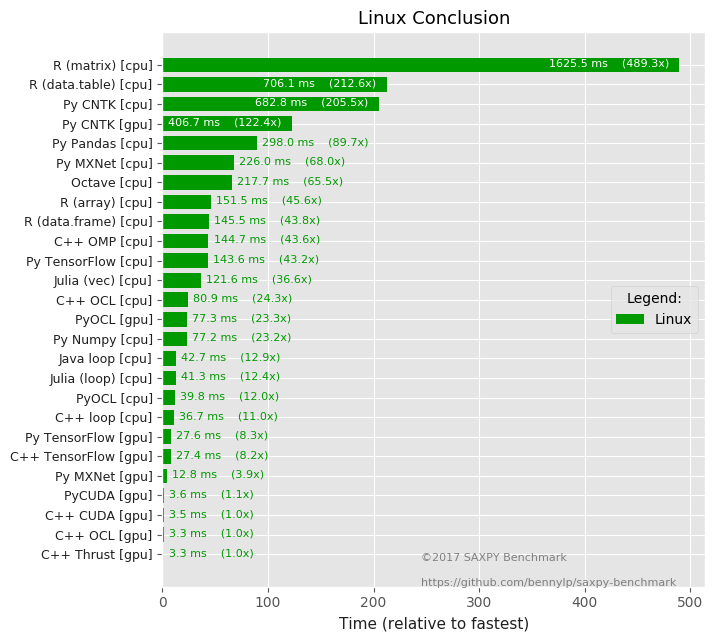
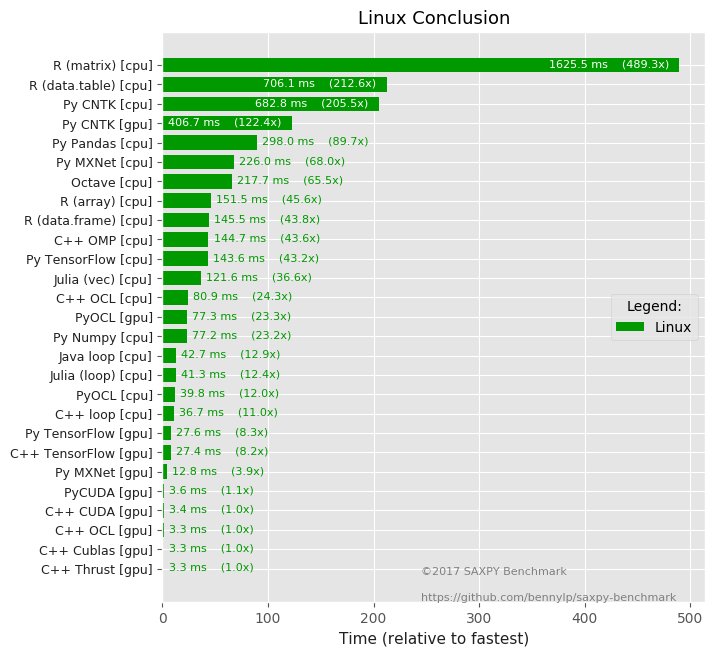
Added Cublas

diff --git a/src/saxpy_cublas.cpp b/src/saxpy_cublas.cpp
@@ -1,0 +1,51 @@
+#include <iostream>
+#include <cublas_v2.h>
+#include "saxpy.h"
+
+int main()
+{
+#define CE(op) if ((status = op) != CUBLAS_STATUS_SUCCESS) { std::cerr << "Error: " #op << " [status=" << status << "]\n"; return 1; }
+   cublasStatus_t status;
+   cublasHandle_t h = nullptr;
+   float *host_x, *host_y;
+
+   std::cout << "N: " << N << std::endl;
+
+   host_x = new float[N];
+   host_y = new float[N];
+
+   //cublasInit();
+   CE( cublasCreate(&h) );
+
+   for (int i=0; i<N; ++i) {
+      host_x[i] = XVAL;
+      host_y[i] = YVAL;
+   }
+   float *dev_x, *dev_y;
+   cudaMalloc( (void**)&dev_x, N*sizeof(float));
+   cudaMalloc( (void**)&dev_y, N*sizeof(float));
+
+   CE( cublasSetVector(N, sizeof(host_x[0]), host_x, 1, dev_x, 1) );
+   CE( cublasSetVector(N, sizeof(host_y[0]), host_y, 1, dev_y, 1) );
+
+   cudaDeviceSynchronize();
+
+   saxpy_timer t;
+   cublasSaxpy(h, N, &AVAL, dev_x, 1, dev_y, 1);
+   cudaDeviceSynchronize();
+   double elapsed = t.elapsed_msec();
+
+   std::cout << "Elapsed: " << elapsed << " ms\n";
+
+   cublasGetVector(N, sizeof(host_y[0]), dev_y, 1, host_y, 1);
+   saxpy_verify(host_y);
+
+   if (h)
+      cublasDestroy(h);
+   cudaFree(dev_y);
+   cudaFree(dev_x);
+   delete [] host_y;
+   delete [] host_x;
+
+   return 0;
+}

diff --git a/results/create_charts.py b/results/create_charts.py
@@ -39,7 +39,8 @@ known_columns = {
     'Julia (vec) [cpu]': 'saxpy_array.jl',
     'Py CNTK [gpu]': 'saxpy_cntk.py',
     'Py CNTK [cpu]': 'saxpy_cntk.py',
-    'C++ Thrust [gpu]': 'saxpy_trust.cpp'
+    'C++ Thrust [gpu]': 'saxpy_trust.cpp',
+    'C++ Cublas [gpu]': 'saxpy_cublas.cpp'
 }
 
 

diff --git a/results/README.md b/results/README.md
@@ -11,6 +11,7 @@ When creating a CSV, please standardize the column names to the following, other
 the CSV will be rejected by `create_charts.py`. The names are standardized in case we want to do
 some statistics with them in the future:
 - C++ CUDA [gpu]
+- C++ Cublas [gpu]
 - C++ OCL [cpu]
 - C++ OCL [gpu]
 - C++ OMP [cpu]
@@ -100,8 +101,9 @@ Note: same machine as Windows below (dual-boot)
 | C++ TensorFlow [gpu] | 27.356 | 0.000 | 8.24x |
 | Py MXNet [gpu] | 12.843 | 0.043 | 3.87x |
 | PyCUDA [gpu] | 3.621 | 0.009 | 1.09x |
-| C++ CUDA [gpu] | 3.467 | 0.022 | 1.04x |
+| C++ CUDA [gpu] | 3.446 | 0.002 | 1.04x |
 | C++ OCL [gpu] | 3.341 | 0.012 | 1.01x |
+| C++ Cublas [gpu] | 3.329 | 0.002 | 1.00x |
 | C++ Thrust [gpu] | 3.322 | 0.006 | 1.00x |
 
 

diff --git a/README.md b/README.md
@@ -139,12 +139,13 @@ Comparing naive C++ loop with OpenCL and OpenMP on CPU.
 
 ## C++ CPU vs GPU
 
-Comparing naive C++ loop with CUDA, OpenCL, and Thrust on GPU
+Comparing naive C++ loop with CUDA, OpenCL, Thrust, and Cublas on GPU
 
 - C++ loop [cpu] ([src/saxpy_cpu.cpp](src/saxpy_cpu.cpp))
 - C++ CUDA [gpu] ([src/saxpy_cuda.cpp](src/saxpy_cuda.cpp))
 - C++ OCL [gpu] ([src/saxpy_ocl1.cpp](src/saxpy_ocl1.cpp))
 - C++ Thrust [gpu] ([src/saxpy_trust.cpp](src/saxpy_trust.cpp))
+- C++ Cublas [gpu] ([src/saxpy_cublas.cpp](src/saxpy_cublas.cpp))
 
 ![results/charts-en/c++-cpu-vs-gpu.png](results/charts-en/c++-cpu-vs-gpu.png?raw=true "results/charts-en/c++-cpu-vs-gpu.png")
 
